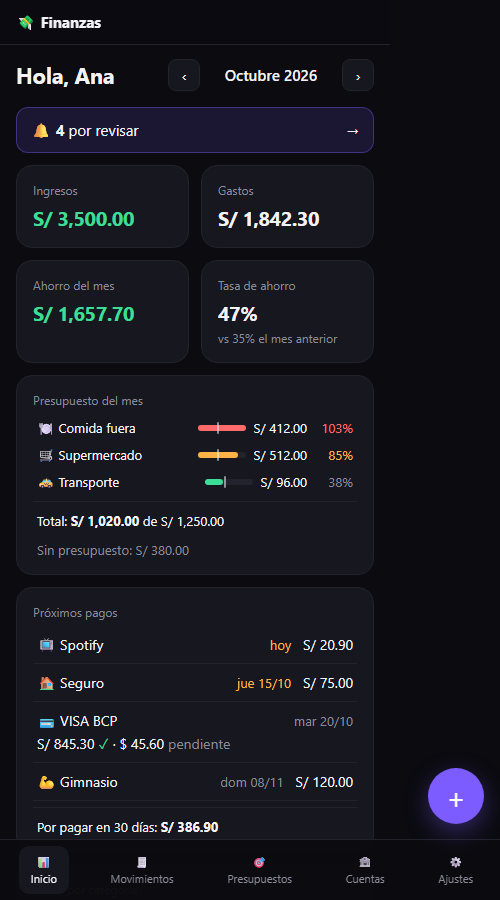
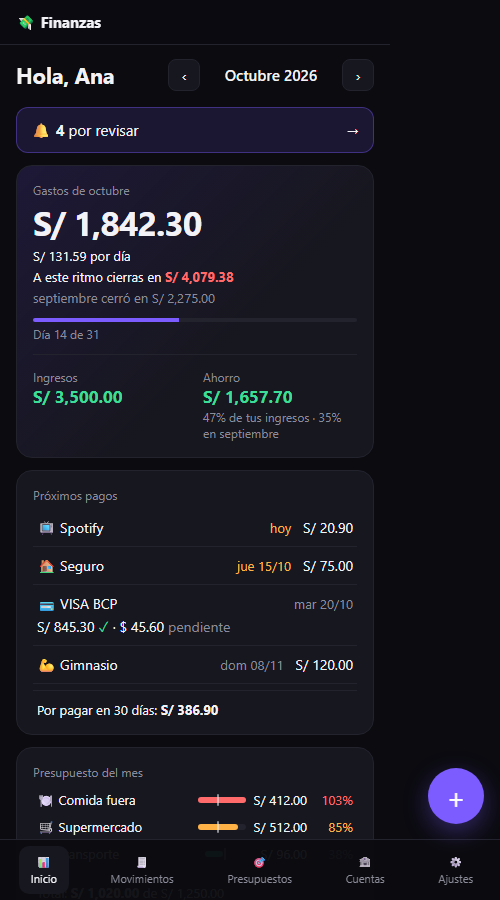
feat: Inicio rediseñado con resumen y proyección del mes, saldos con neto y "¿En qué se fue?" con pestañas

diff --git a/src/web/vista-inicio.html b/src/web/vista-inicio.html
@@ -1,25 +1,20 @@
 <script>
 'use strict';
+// Tablero del Inicio. El orden del HTML es el del celular (lo urgente primero); en pantallas
+// anchas cada bloque va a su área de la grilla (.tablero en estilos.html).
 VISTAS.inicio = async function (cont) {
   const d = await api('obtenerDashboard', estado.mes);
-  const r = d.resumen;
-  const ant = d.resumenAnterior;
-  const nota = r.tasaAhorro == null || ant.tasaAhorro == null ? '' : 'vs ' + ant.tasaAhorro + '% el mes anterior';
+  const sinPagos = !d.proximosPagos;
   cont.innerHTML =
     '<div class="cabecera"><h1>Hola, ' + esc(estado.catalogos.config.nombre) + '</h1>' + selectorMes() + '</div>' +
     (d.porRevisar ? '<button type="button" class="franja" id="ir-revisar"><span>🔔 <b>' + d.porRevisar + '</b> por revisar</span><span>→</span></button>' : '') +
-    '<div class="grid">' +
-      kpi('Ingresos', dinero(r.ingresos), 'pos') +
-      kpi('Gastos', dinero(r.gastos), '') +
-      kpi('Ahorro del mes', dinero(r.ahorro), r.ahorro < 0 ? 'neg' : 'pos') +
-      kpi('Tasa de ahorro', r.tasaAhorro == null ? '—' : r.tasaAhorro + '%', '', nota) +
-      bloquePresupuesto(d.presupuesto) +
+    '<div class="tablero' + (sinPagos ? ' sin-pagos' : '') + '">' +
+      bloqueResumen(d) +
       bloqueProximosPagos(d.proximosPagos) +
-      bloqueCategorias(d.categorias) +
-      bloqueAmbitos(d.ambitos || []) +
-      bloqueTendencia(d.tendencia) +
+      bloquePresupuesto(d.presupuesto) +
+      bloqueEnQueSeFue(d) +
       bloqueSaldos(d.saldos) +
-      bloqueComercios(d.comercios) +
+      bloqueTendencia(d.tendencia, d.mes) +
     '</div>';
   enlazarMes(cont);
   const franja = $('#ir-revisar');
@@ -28,20 +23,53 @@ VISTAS.inicio = async function (cont) {
   if (irPresupuestos) irPresupuestos.onclick = () => mostrar('presupuestos');
   const irFijos = $('#ir-pagos-fijos');
   if (irFijos) irFijos.onclick = () => mostrar('presupuestos');
-  cont.querySelectorAll('[data-categoria]').forEach(f => {
-    f.onclick = () => { estado.filtro = { categoria_id: f.dataset.categoria }; mostrar('movimientos'); };
-  });
+  enlazarEnQueSeFue(cont);
 };
 
-function kpi(titulo, valor, clase, nota) {
-  return '<section class="tarjeta"><div class="etiqueta">' + esc(titulo) + '</div><div class="kpi num ' + clase + '">' + valor + '</div>' +
-    (nota ? '<div class="etiqueta" style="margin:4px 0 0">' + esc(nota) + '</div>' : '') + '</section>';
+// Días del mes que ya pasaron: todos si el mes terminó, 0 si es futuro.
+function diasTranscurridos(mes) {
+  const p = mes.split('-').map(Number);
+  const total = new Date(p[0], p[1], 0).getDate();
+  const hoy = hoyIso();
+  if (mes < hoy.slice(0, 7)) return { pasados: total, total: total };
+  if (mes > hoy.slice(0, 7)) return { pasados: 0, total: total };
+  return { pasados: Number(hoy.slice(8, 10)), total: total };
+}
+
+function nombreMesCorto(mes) { return MESES[Number(mes.slice(5)) - 1].toLowerCase(); }
+
+// Lo primero que se mira: cuánto llevas gastado, a qué ritmo y cómo cierra el mes.
+function bloqueResumen(d) {
+  const r = d.resumen;
+  const ant = d.resumenAnterior;
+  const anterior = nombreMesCorto(sumarMes(d.mes, -1));
+  const dias = diasTranscurridos(d.mes);
+  const enCurso = dias.pasados > 0 && dias.pasados < dias.total;
+  let ritmo = '';
+  if (enCurso && dias.pasados >= 3 && r.gastos > 0) {
+    const proyeccion = r.gastos / dias.pasados * dias.total;
+    const clase = ant.gastos > 0 ? (proyeccion > ant.gastos ? 'neg' : 'pos') : '';
+    ritmo = '<div class="ritmo"><span>' + dinero(r.gastos / dias.pasados) + ' por día</span><span>A este ritmo cierras en <b class="num ' + clase + '">' +
+      dinero(proyeccion) + '</b></span>' + (ant.gastos > 0 ? '<span class="tenue">' + anterior + ' cerró en ' + dinero(ant.gastos) + '</span>' : '') + '</div>';
+  } else if (!enCurso && ant.gastos > 0 && r.gastos > 0) {
+    const cambio = Math.round((r.gastos - ant.gastos) / ant.gastos * 100);
+    ritmo = '<div class="ritmo"><span class="' + (cambio > 0 ? 'neg' : 'pos') + '">' + (cambio > 0 ? '▲ ' : '▼ ') + Math.abs(cambio) +
+      '% vs ' + anterior + '</span><span class="tenue">' + anterior + ': ' + dinero(ant.gastos) + '</span></div>';
+  }
+  const progreso = enCurso ? '<div class="barra-mes" title="Día ' + dias.pasados + ' de ' + dias.total + '"><i style="width:' +
+    (dias.pasados / dias.total * 100) + '%"></i></div><div class="etiqueta">Día ' + dias.pasados + ' de ' + dias.total + '</div>' : '';
+  const tasa = r.tasaAhorro == null ? '' : '<div class="etiqueta">' + r.tasaAhorro + '% de tus ingresos' +
+    (ant.tasaAhorro == null ? '' : ' · ' + ant.tasaAhorro + '% en ' + anterior) + '</div>';
+  return '<section class="tarjeta area-resumen"><div class="etiqueta">Gastos de ' + nombreMesCorto(d.mes) + '</div>' +
+    '<div class="cifra num">' + dinero(r.gastos) + '</div>' + ritmo + progreso +
+    '<div class="resumen-pie"><div><div class="etiqueta">Ingresos</div><b class="num pos">' + dinero(r.ingresos) + '</b></div>' +
+    '<div><div class="etiqueta">Ahorro</div><b class="num ' + (r.ahorro < 0 ? 'neg' : 'pos') + '">' + dinero(r.ahorro) + '</b>' + tasa + '</div></div></section>';
 }
 
 function bloquePresupuesto(p) {
   const titulo = '<div class="etiqueta">Presupuesto del mes</div>';
   if (!p || !p.filas.length) {
-    return '<section class="tarjeta ancho-2">' + titulo + '<div class="vacio">Aún no defines presupuestos para este mes. ' +
+    return '<section class="tarjeta area-ppto">' + titulo + '<div class="vacio">Aún no defines presupuestos para este mes. ' +
       '<button type="button" class="boton" id="ir-presupuestos">Definir presupuestos</button></div></section>';
   }
   const claseEstado = { ok: 'tenue', alerta: 'alerta', pasado: 'neg' };
@@ -51,7 +79,7 @@ function bloquePresupuesto(p) {
     '<b style="left:' + f.ritmo + '%" title="Dónde deberías ir a esta fecha"></b></span>' +
     '<span class="der num">' + dinero(f.gastado) + '<span class="tenue de-ppto"> de ' + dinero(f.presupuesto) + '</span></span>' +
     '<span class="der num ' + claseEstado[f.estado] + '">' + f.porcentaje + '%</span></div>').join('');
-  return '<section class="tarjeta ancho-2">' + titulo + '<div class="filas">' + filas + '</div>' +
+  return '<section class="tarjeta area-ppto">' + titulo + '<div class="filas">' + filas + '</div>' +
     '<div class="pie-ppto"><span>Total: <b class="num">' + dinero(p.total.gastado) + '</b> de ' + dinero(p.total.presupuesto) + '</span>' +
     '<span class="tenue">Sin presupuesto: ' + dinero(p.sinPresupuesto) + '</span></div></section>';
 }
@@ -74,7 +102,7 @@ function bloqueProximosPagos(r) {
   if (!r) return '';
   const titulo = '<div class="etiqueta">Próximos pagos</div>';
   if (!r.pagos.length) {
-    return '<section class="tarjeta ancho-2">' + titulo + '<div class="vacio">Agrega tus pagos fijos (alquiler, suscripciones, gimnasio) ' +
+    return '<section class="tarjeta area-pagos">' + titulo + '<div class="vacio">Agrega tus pagos fijos (alquiler, suscripciones, gimnasio) ' +
       'para verlos aquí antes de que venzan. <button type="button" class="boton" id="ir-pagos-fijos">Agregar pagos fijos</button></div></section>';
   }
   const filas = r.pagos.map(p => {
@@ -88,7 +116,7 @@ function bloqueProximosPagos(r) {
     return '<div class="fila-pago' + (tarjeta ? ' larga' : '') + (pagada ? ' atenuada' : '') + '"><span>' + esc(p.emoji + ' ' + p.nombre) + '</span>' +
       '<span class="cuando ' + clase + '">' + esc(cuandoPago(p)) + '</span><span class="der num">' + monto + '</span></div>';
   }).join('');
-  return '<section class="tarjeta ancho-2">' + titulo + '<div class="filas">' + filas + '</div>' +
+  return '<section class="tarjeta area-pagos">' + titulo + '<div class="filas">' + filas + '</div>' +
     '<div class="pie-ppto"><span>Por pagar en 30 días: <b class="num">' + dinero(r.porPagar) + '</b></span></div></section>';
 }
 
@@ -105,20 +133,38 @@ function dona(items) {
     '<circle cx="21" cy="21" r="15.9155" fill="none" style="stroke:var(--borde)" stroke-width="6"/>' + arcos + '</svg>';
 }
 
-function bloqueAmbitos(items) {
-  if (!items.length) return '';
-  const max = Math.max(...items.map(a => a.monto));
-  const filas = items.map(a => '<details class="ambito-detalle"><summary class="fila-barra clic"><span>' + esc(a.emoji) + ' ' + esc(a.nombre) + '</span>' +
-    '<span class="mini"><i style="width:' + (a.monto / max * 100) + '%;background:var(--primario)"></i></span>' +
-    '<span class="der num">' + dinero(a.monto) + '</span><span class="der tenue num">' + a.porcentaje + '%</span></summary>' +
-    a.categorias.map(c => '<div class="fila-simple sub"><span>' + esc(c.emoji + ' ' + c.nombre) + '</span><span class="num">' + dinero(c.monto) + '</span></div>').join('') +
-    '</details>').join('');
-  return '<section class="tarjeta ancho-2"><div class="etiqueta">Gasto por ámbito</div>' + filas + '</section>';
+// Categorías, ámbitos y comercios responden lo mismo desde tres ángulos: una tarjeta con pestañas.
+function bloqueEnQueSeFue(d) {
+  const vistas = [['categorias', 'Categorías', panelCategorias(d.categorias)]];
+  if ((d.ambitos || []).length > 1) vistas.push(['ambitos', 'Ámbitos', panelAmbitos(d.ambitos)]);
+  vistas.push(['comercios', 'Comercios', panelComercios(d.comercios)]);
+  const guardada = leerLocal('inicioPestana');
+  const activa = vistas.some(v => v[0] === guardada) ? guardada : 'categorias';
+  return '<section class="tarjeta area-gasto"><div class="cabecera-seccion"><div class="etiqueta">¿En qué se fue?</div>' +
+    '<div class="segmento mini-seg" role="tablist">' + vistas.map(v => '<button type="button" role="tab" data-pestana="' + v[0] + '"' +
+      (v[0] === activa ? ' class="activo" aria-selected="true"' : ' aria-selected="false"') + '>' + v[1] + '</button>').join('') + '</div></div>' +
+    vistas.map(v => '<div data-panel="' + v[0] + '"' + (v[0] === activa ? '' : ' hidden') + '>' + v[2] + '</div>').join('') + '</section>';
 }
 
-function bloqueCategorias(items) {
-  const titulo = '<div class="etiqueta">Gasto por categoría</div>';
-  if (!items.length) return '<section class="tarjeta ancho-2">' + titulo + '<div class="vacio">Sin gastos este mes.</div></section>';
+function enlazarEnQueSeFue(cont) {
+  const pestanas = cont.querySelectorAll('[data-pestana]');
+  pestanas.forEach(b => {
+    b.onclick = () => {
+      pestanas.forEach(x => { x.classList.toggle('activo', x === b); x.setAttribute('aria-selected', String(x === b)); });
+      cont.querySelectorAll('[data-panel]').forEach(p => { p.hidden = p.dataset.panel !== b.dataset.pestana; });
+      guardarLocal('inicioPestana', b.dataset.pestana);
+    };
+  });
+  cont.querySelectorAll('[data-categoria]').forEach(f => {
+    f.onclick = () => { estado.filtro = { categoria_id: f.dataset.categoria }; mostrar('movimientos'); };
+  });
+  cont.querySelectorAll('[data-ver-ambito]').forEach(b => {
+    b.onclick = () => { estado.filtro = { ambito_id: b.dataset.verAmbito }; mostrar('movimientos'); };
+  });
+}
+
+function panelCategorias(items) {
+  if (!items.length) return '<div class="vacio">Sin gastos este mes.</div>';
   const max = Math.max(...items.map(c => c.monto));
   const filas = items.map(c => {
     const clic = c.categoria_id !== '_resto' ? ' clic" data-categoria="' + esc(c.categoria_id) + '"' : '"';
@@ -126,42 +172,59 @@ function bloqueCategorias(items) {
       '<span class="mini"><i style="width:' + (c.monto / max * 100) + '%;background:' + esc(c.color) + '"></i></span>' +
       '<span class="der num">' + dinero(c.monto) + '</span><span class="der tenue num">' + c.porcentaje + '%</span></div>';
   }).join('');
-  return '<section class="tarjeta ancho-2">' + titulo + '<div class="dona-fila">' + dona(items) + '<div class="filas">' + filas + '</div></div></section>';
+  return '<div class="dona-fila">' + dona(items) + '<div class="filas">' + filas + '</div></div>';
 }
 
-function bloqueTendencia(meses) {
+function panelAmbitos(items) {
+  const max = Math.max(...items.map(a => a.monto));
+  return items.map(a => '<details class="ambito-detalle"><summary class="fila-barra clic"><span>' + esc((a.emoji ? a.emoji + ' ' : '') + a.nombre) + '</span>' +
+    '<span class="mini"><i style="width:' + (a.monto / max * 100) + '%;background:var(--primario)"></i></span>' +
+    '<span class="der num">' + dinero(a.monto) + '</span><span class="der tenue num">' + a.porcentaje + '%</span></summary>' +
+    a.categorias.map(c => '<div class="fila-simple sub"><span>' + esc(c.emoji + ' ' + c.nombre) + '</span><span class="num">' + dinero(c.monto) + '</span></div>').join('') +
+    '<button type="button" class="enlace sub" data-ver-ambito="' + esc(a.ambito_id) + '">Ver movimientos →</button></details>').join('') +
+    '<p class="tenue nota">Toca un ámbito para ver en qué categorías se fue.</p>';
+}
+
+function panelComercios(lista) {
+  if (!lista.length) return '<div class="vacio">Sin comercios este mes.</div>';
+  const max = Math.max(...lista.map(c => c.monto));
+  return '<div class="fila-barra cabeza"><span>Comercio</span><span></span><span class="der">Monto</span><span class="der">Veces</span></div>' +
+    lista.map(c => '<div class="fila-barra"><span>' + esc(c.comercio) + '</span><span class="mini"><i style="width:' + (c.monto / max * 100) + '%;background:var(--positivo)"></i></span>' +
+      '<span class="der num">' + dinero(c.monto) + '</span><span class="der tenue num">' + c.veces + '×</span></div>').join('');
+}
+
+// El mes elegido resalta; la línea punteada es el gasto promedio de los meses anteriores.
+function bloqueTendencia(meses, mesActual) {
   const max = Math.max(1, ...meses.map(m => Math.max(m.ingresos, m.gastos)));
   const ancho = 300;
   const alto = 120;
   const paso = ancho / meses.length;
+  const previos = meses.filter(m => m.mes < mesActual && (m.gastos || m.ingresos));
+  const promedio = previos.length ? previos.reduce((s, m) => s + m.gastos, 0) / previos.length : 0;
   const barras = meses.map((m, i) => {
     const x = i * paso + paso / 2;
     const hi = m.ingresos / max * (alto - 10);
     const hg = Math.max(0, m.gastos) / max * (alto - 10);
     const etiqueta = MESES[Number(m.mes.slice(5)) - 1].slice(0, 3).toLowerCase();
-    return '<rect x="' + (x - 15) + '" y="' + (alto - hi) + '" width="14" height="' + hi + '" rx="3" style="fill:var(--positivo)"><title>Ingresos ' + dinero(m.ingresos) + '</title></rect>' +
-      '<rect x="' + (x + 1) + '" y="' + (alto - hg) + '" width="14" height="' + hg + '" rx="3" style="fill:var(--primario)"><title>Gastos ' + dinero(m.gastos) + '</title></rect>' +
-      '<text x="' + x + '" y="' + (alto + 16) + '" text-anchor="middle" font-size="11" style="fill:var(--texto-2)">' + etiqueta + '</text>';
+    const opacidad = m.mes === mesActual ? '' : ' opacity=".45"';
+    return '<rect x="' + (x - 15) + '" y="' + (alto - hi) + '" width="14" height="' + hi + '" rx="3" style="fill:var(--positivo)"' + opacidad + '><title>Ingresos ' + dinero(m.ingresos) + '</title></rect>' +
+      '<rect x="' + (x + 1) + '" y="' + (alto - hg) + '" width="14" height="' + hg + '" rx="3" style="fill:var(--primario)"' + opacidad + '><title>Gastos ' + dinero(m.gastos) + '</title></rect>' +
+      '<text x="' + x + '" y="' + (alto + 16) + '" text-anchor="middle" font-size="11" style="fill:' + (m.mes === mesActual ? 'var(--texto)' : 'var(--texto-2)') + '">' + etiqueta + '</text>';
   }).join('');
-  return '<section class="tarjeta ancho-2"><div class="etiqueta">Últimos 6 meses · <span class="pos">■</span> ingresos <span style="color:var(--primario)">■</span> gastos</div>' +
-    '<svg viewBox="0 0 ' + ancho + ' ' + (alto + 22) + '" width="100%" style="max-height:210px" role="img" aria-label="Ingresos y gastos de los últimos 6 meses">' + barras + '</svg></section>';
+  const yProm = alto - promedio / max * (alto - 10);
+  const linea = promedio ? '<line x1="0" x2="' + ancho + '" y1="' + yProm + '" y2="' + yProm + '" stroke-dasharray="4 4" style="stroke:var(--texto-2)" stroke-width="1"/>' : '';
+  return '<section class="tarjeta area-tendencia"><div class="etiqueta">Últimos 6 meses · <span class="pos">■</span> ingresos <span style="color:var(--primario)">■</span> gastos</div>' +
+    '<svg viewBox="0 0 ' + ancho + ' ' + (alto + 22) + '" width="100%" style="max-height:210px" role="img" aria-label="Ingresos y gastos de los últimos 6 meses">' + barras + linea + '</svg>' +
+    (promedio ? '<div class="etiqueta">┄ Gasto promedio de los meses anteriores: <b class="num">' + dinero(promedio) + '</b></div>' : '') + '</section>';
 }
 
 function bloqueSaldos(saldos) {
+  const neto = saldos.reduce((s, x) => s + x.saldo_pen, 0);
   const filas = saldos.length ? saldos.map(s =>
     '<div class="fila-simple"><span>' + esc(s.nombre) + ' <span class="tenue">· ' + esc(s.banco) + '</span></span>' +
     '<span class="num ' + (s.saldo_pen < 0 ? 'neg' : '') + '">' + dinero(s.saldo_pen) + '</span></div>').join('') : '<div class="vacio">Sin cuentas activas.</div>';
-  return '<section class="tarjeta ancho-2"><div class="etiqueta">Saldos actuales</div>' + filas + '</section>';
-}
-
-function bloqueComercios(lista) {
-  const titulo = '<div class="etiqueta">Comercios donde más gastas</div>';
-  if (!lista.length) return '<section class="tarjeta ancho-2">' + titulo + '<div class="vacio">Sin comercios este mes.</div></section>';
-  const max = Math.max(...lista.map(c => c.monto));
-  const filas = lista.map(c =>
-    '<div class="fila-barra"><span>' + esc(c.comercio) + '</span><span class="mini"><i style="width:' + (c.monto / max * 100) + '%;background:var(--positivo)"></i></span>' +
-    '<span class="der num">' + dinero(c.monto) + '</span><span class="der tenue num">' + c.veces + '×</span></div>').join('');
-  return '<section class="tarjeta ancho-2">' + titulo +
-    '<div class="fila-barra cabeza"><span>Comercio</span><span></span><span class="der">Monto</span><span class="der">Veces</span></div>' + filas + '</section>';
+  return '<section class="tarjeta area-saldos"><div class="cabecera-seccion"><div class="etiqueta">Saldos actuales</div>' +
+    (saldos.length ? '<div class="etiqueta" title="Suma de todas las cuentas; las tarjetas restan lo que debes">Neto <b class="num ' + (neto < 0 ? 'neg' : '') + '">' + dinero(neto) + '</b></div>' : '') +
+    '</div>' + filas + '</section>';
 }
 </script>

diff --git a/src/web/estilos.html b/src/web/estilos.html
@@ -34,9 +34,25 @@ main { max-width: 1180px; margin: 0 auto; padding: 20px 24px 110px; }
 .mes span { min-width: 130px; text-align: center; font-weight: 600; }
 
 /* Tarjetas y dashboard */
-.grid { display: grid; grid-template-columns: repeat(4, 1fr); gap: 12px; }
+/* Inicio: cada bloque va a su área; en celular se apilan en el orden del HTML (lo urgente primero). */
+.tablero { display: grid; gap: 12px; grid-template-columns: repeat(6, minmax(0, 1fr));
+  grid-template-areas: "resumen resumen resumen resumen saldos saldos" "ppto ppto ppto pagos pagos pagos" "gasto gasto gasto gasto tendencia tendencia"; }
+.tablero.sin-pagos { grid-template-areas: "resumen resumen resumen resumen saldos saldos" "gasto gasto gasto gasto tendencia tendencia" "ppto ppto ppto ppto ppto ppto"; }
+.area-resumen { grid-area: resumen; } .area-saldos { grid-area: saldos; } .area-ppto { grid-area: ppto; }
+.area-pagos { grid-area: pagos; } .area-gasto { grid-area: gasto; } .area-tendencia { grid-area: tendencia; }
 .tarjeta { background: var(--superficie); border: 1px solid var(--borde); border-radius: var(--radio); padding: 16px; min-width: 0; }
-.ancho-2 { grid-column: span 2; }
+.area-resumen { background: linear-gradient(135deg, rgba(124, 92, 255, .16), var(--superficie) 60%); }
+.cifra { font-size: 40px; font-weight: 700; letter-spacing: -1px; line-height: 1.1; }
+.ritmo { display: flex; flex-wrap: wrap; gap: 4px 18px; font-size: 13px; margin: 6px 0 12px; }
+.barra-mes { height: 4px; border-radius: 99px; background: var(--borde); overflow: hidden; margin-bottom: 4px; }
+.barra-mes i { display: block; height: 100%; background: var(--primario); }
+.resumen-pie { display: grid; grid-template-columns: repeat(2, minmax(0, max-content)); gap: 8px 40px; border-top: 1px solid var(--borde); padding-top: 12px; margin-top: 12px; }
+.resumen-pie b { font-size: 17px; }
+.resumen-pie .etiqueta { margin: 2px 0 0; }
+.segmento.mini-seg { margin: 0; padding: 3px; gap: 2px; }
+.segmento.mini-seg button { flex: none; padding: 5px 10px; font-size: 12px; }
+.enlace { background: none; border: 0; color: var(--primario); cursor: pointer; font-size: 12px; padding: 4px 4px 8px 28px; }
+.nota { font-size: 12px; margin: 8px 0 0; }
 .etiqueta { font-size: 12px; color: var(--texto-2); margin-bottom: 6px; }
 .kpi { font-size: 24px; font-weight: 700; letter-spacing: -.4px; }
 .dona-fila { display: flex; gap: 16px; align-items: center; }
@@ -87,7 +103,7 @@ main { max-width: 1180px; margin: 0 auto; padding: 20px 24px 110px; }
 .dos-col { display: grid; grid-template-columns: 1fr 1fr; gap: 10px; }
 .check { display: flex; gap: 8px; align-items: center; font-size: 14px; margin: 4px 0 8px; }
 .seccion { margin-bottom: 12px; }
-.cabecera-seccion { display: flex; justify-content: space-between; align-items: center; margin-bottom: 8px; }
+.cabecera-seccion { display: flex; justify-content: space-between; align-items: center; flex-wrap: wrap; gap: 8px; margin-bottom: 8px; }
 .titulo-modal { margin: 0 0 14px; font-size: 19px; }
 .asistente { max-width: 560px; margin: 20px auto; }
 .pasos { display: flex; gap: 6px; margin-bottom: 16px; }
@@ -144,8 +160,18 @@ main { max-width: 1180px; margin: 0 auto; padding: 20px 24px 110px; }
 .abrir-fijo .detalle { font-size: 12px; }
 .abrir-fijo:focus-visible { outline: 2px solid var(--primario); outline-offset: 2px; border-radius: 6px; }
 
+/* Pantallas medianas: dos columnas, sin bloques angostos. */
+@media (max-width: 1000px) {
+  .tablero { grid-template-columns: repeat(2, minmax(0, 1fr)); grid-template-areas: "resumen resumen" "pagos pagos" "ppto ppto" "gasto gasto" "saldos tendencia"; }
+  .tablero.sin-pagos { grid-template-areas: "resumen resumen" "ppto ppto" "gasto gasto" "saldos tendencia"; }
+}
+
 /* Celular */
 @media (max-width: 720px) {
+  .tablero, .tablero.sin-pagos { display: flex; flex-direction: column; }
+  .cifra { font-size: 34px; }
+  .ritmo { flex-direction: column; }
+  .resumen-pie { grid-template-columns: 1fr 1fr; gap: 8px 16px; }
   .fila-pago.larga { grid-template-columns: minmax(0, 1fr) auto; }
   .fila-pago.larga .der { grid-column: 1 / -1; text-align: left; }
   .fila-barra.ppto { grid-template-columns: minmax(80px, 1fr) 48px auto 38px; }
@@ -154,7 +180,6 @@ main { max-width: 1180px; margin: 0 auto; padding: 20px 24px 110px; }
   .barra nav { display: none; }
   .barra { padding: 12px 16px; }
   main { padding: 14px 16px 130px; }
-  .grid { grid-template-columns: 1fr 1fr; }
   .dona-fila { flex-direction: column; align-items: stretch; }
   .dona { align-self: center; }
   .fila-barra { grid-template-columns: minmax(80px, 1fr) 56px 78px 34px; gap: 8px; }

diff --git a/tests/ui/ver.js b/tests/ui/ver.js
@@ -3,6 +3,7 @@
 //
 // Uso: node tests/ui/ver.js "<js a ejecutar>" <id del elemento> [captura.png] [ancho]
 // Ej.: node tests/ui/ver.js "mostrar('movimientos')" vista captura.png 390
+// Captura más alta (página completa): ALTO=3000 node tests/ui/ver.js ...
 const fs = require('fs');
 const os = require('os');
 const path = require('path');
@@ -46,7 +47,7 @@ html = html.replace('</body>', () => cierre);
 const tmp = path.join(os.tmpdir(), 'finanzas-ui-' + process.pid + '.html');
 fs.writeFileSync(tmp, html);
 const url = 'file:///' + tmp.replace(/\\/g, '/');
-const base = ['--headless=new', '--disable-gpu', '--hide-scrollbars', '--window-size=' + Math.max(500, Number(ancho) || 420) + ',900', '--virtual-time-budget=6000'];
+const base = ['--headless=new', '--disable-gpu', '--hide-scrollbars', '--window-size=' + Math.max(500, Number(ancho) || 420) + ',' + (Number(process.env.ALTO) || 900), '--virtual-time-budget=6000'];
 try {
   const dom = execFileSync(CHROME, [...base, '--dump-dom', url], { encoding: 'utf8', stdio: ['ignore', 'pipe', 'ignore'] });
   const m = /<pre id="__salida"[^>]*>([\s\S]*?)<\/pre>/.exec(dom);

diff --git a/CHANGELOG.md b/CHANGELOG.md
@@ -7,8 +7,15 @@ Formato basado en [Keep a Changelog](https://keepachangelog.com/es-ES/1.1.0/); v
 ### Agregado
 - Ámbitos de gasto (Personal, Diversión, Familia, Trabajo): un segundo dato del gasto, aparte de la categoría, para separar por ejemplo un taxi a una fiesta de uno al trabajo. Si no eliges ninguno, el gasto queda en Personal.
 - Se eligen en Por revisar, al registrar o editar, en cada parte de un gasto dividido y en el bot (botones tras categorizar, o escribiendo `taxi 15 diversión`).
-- Inicio: bloque "Gasto por ámbito" con el detalle por categoría. Movimientos: filtro por ámbito y etiqueta en la lista.
+- Inicio: gasto por ámbito con el detalle por categoría. Movimientos: filtro por ámbito y etiqueta en la lista.
 - Ajustes → Ámbitos: renombrar, agregar o desactivar (Personal es fijo).
+
+### Cambiado
+- Inicio rediseñado. Arriba, el gasto del mes con el gasto por día, la proyección a fin de mes (contra lo que cerró el mes anterior) y la barra de días transcurridos; en meses cerrados, la variación contra el mes anterior. Ingresos, ahorro y tasa van como dato secundario.
+- Saldos con el total neto, al lado del resumen. Presupuesto y próximos pagos, lado a lado.
+- Categorías, ámbitos y comercios en una sola tarjeta "¿En qué se fue?" con pestañas (recuerda la última elegida). Desde un ámbito se puede ir a sus movimientos.
+- La tendencia resalta el mes elegido y marca el gasto promedio de los meses anteriores.
+- En el celular, los bloques van de lo más urgente (resumen, pagos, presupuesto) a lo histórico; sin huecos en pantallas anchas ni medianas.
 
 ## [0.7.2] — 2026-10-14
 

diff --git a/README.md b/README.md
@@ -20,7 +20,7 @@ App de finanzas personales que vive en **tu propia cuenta de Google**: lee los c
 - **Ámbitos de gasto** (Personal, Diversión, Familia, Trabajo), editables, con análisis en el Inicio.
 - **Presupuestos por categoría:** con lo del mes pasado como referencia; el Inicio muestra cuánto llevas y el bot te avisa al 80 % y al 100 %.
 - **Próximos pagos:** lee el estado de cuenta de tu tarjeta (total, mínimo y fecha límite en S/ y $), sabe qué parte ya pagaste y te recuerda tus pagos fijos y la tarjeta 3 días antes y el mismo día.
-- **Dashboard y movimientos:** ingresos, gastos, ahorro y tasa de ahorro; gasto por categoría; tendencia de 6 meses; saldos por cuenta; comercios donde más gastas; dividir una compra entre categorías.
+- **Dashboard y movimientos:** gasto del mes con ritmo diario y proyección a fin de mes; ingresos, ahorro y tasa; saldos con total neto; "¿En qué se fue?" por categoría, ámbito o comercio; tendencia de 6 meses con promedio; dividir una compra entre categorías.
 - **Instalación con "Hacer una copia"**, actualización importando tus datos y **modo demo** con datos ficticios.
 
 <img src="docs/img/presupuestos-movil.png" alt="Presupuestos y pagos fijos" width="320">
